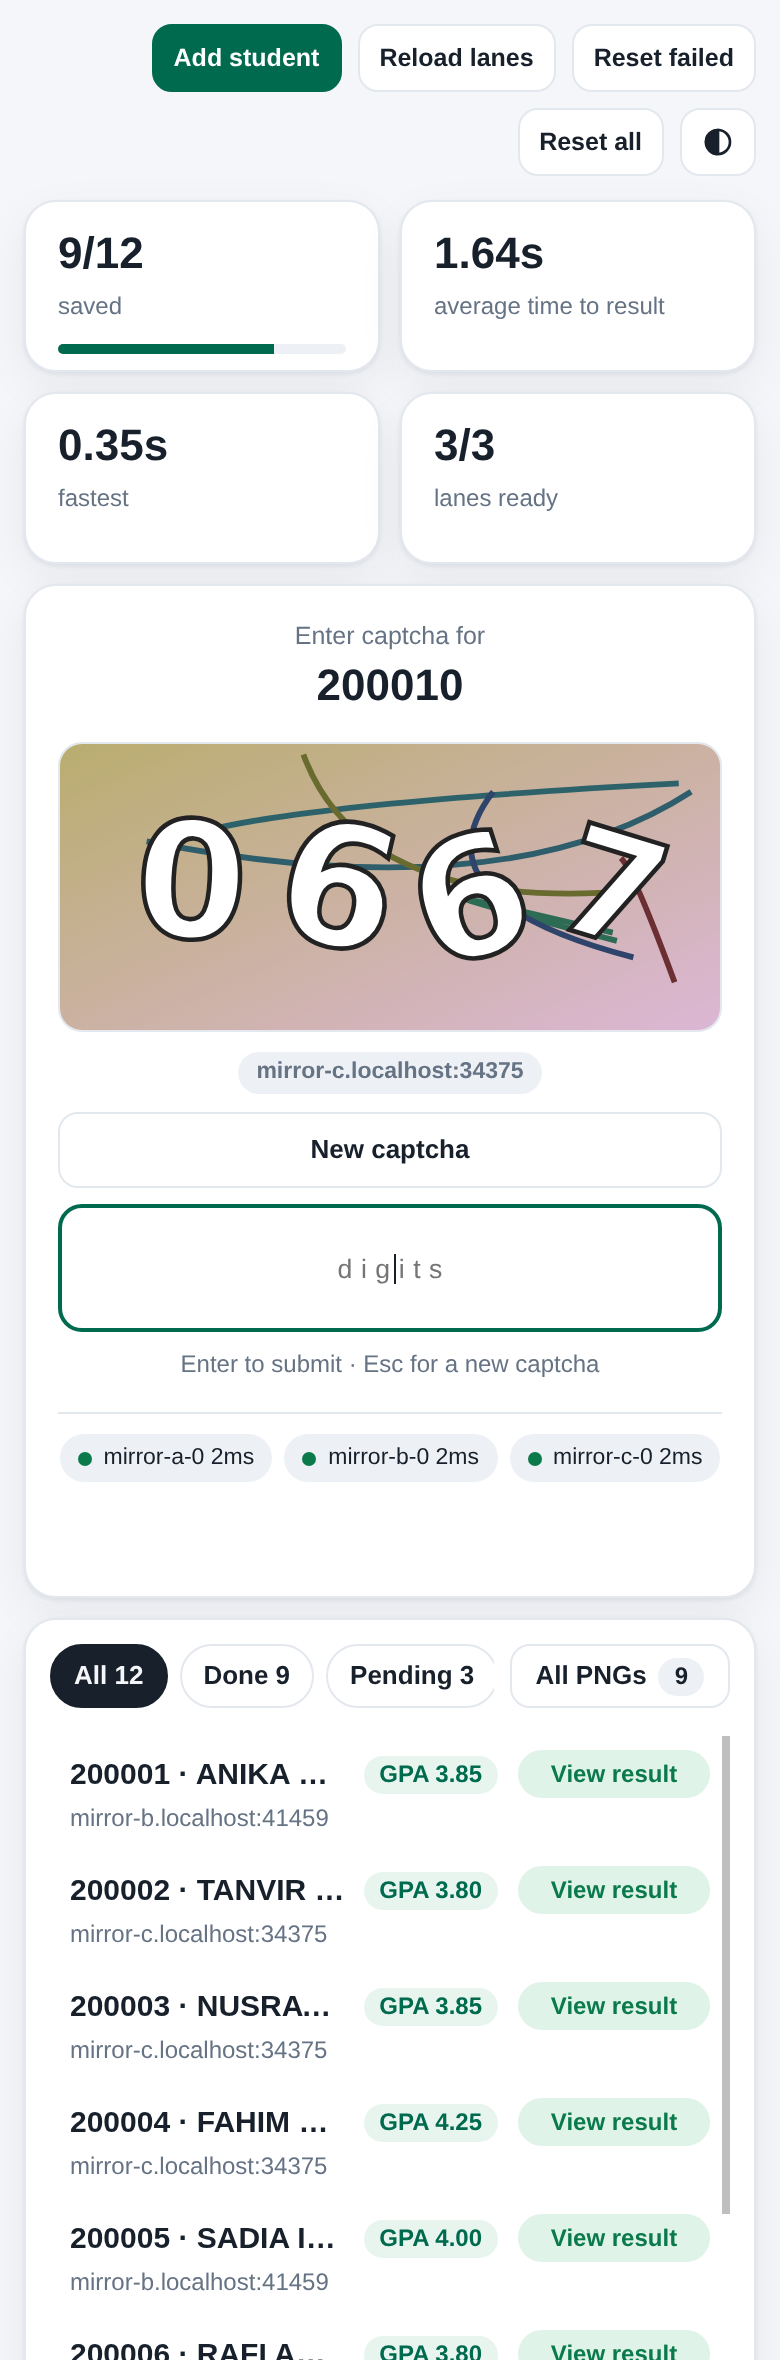
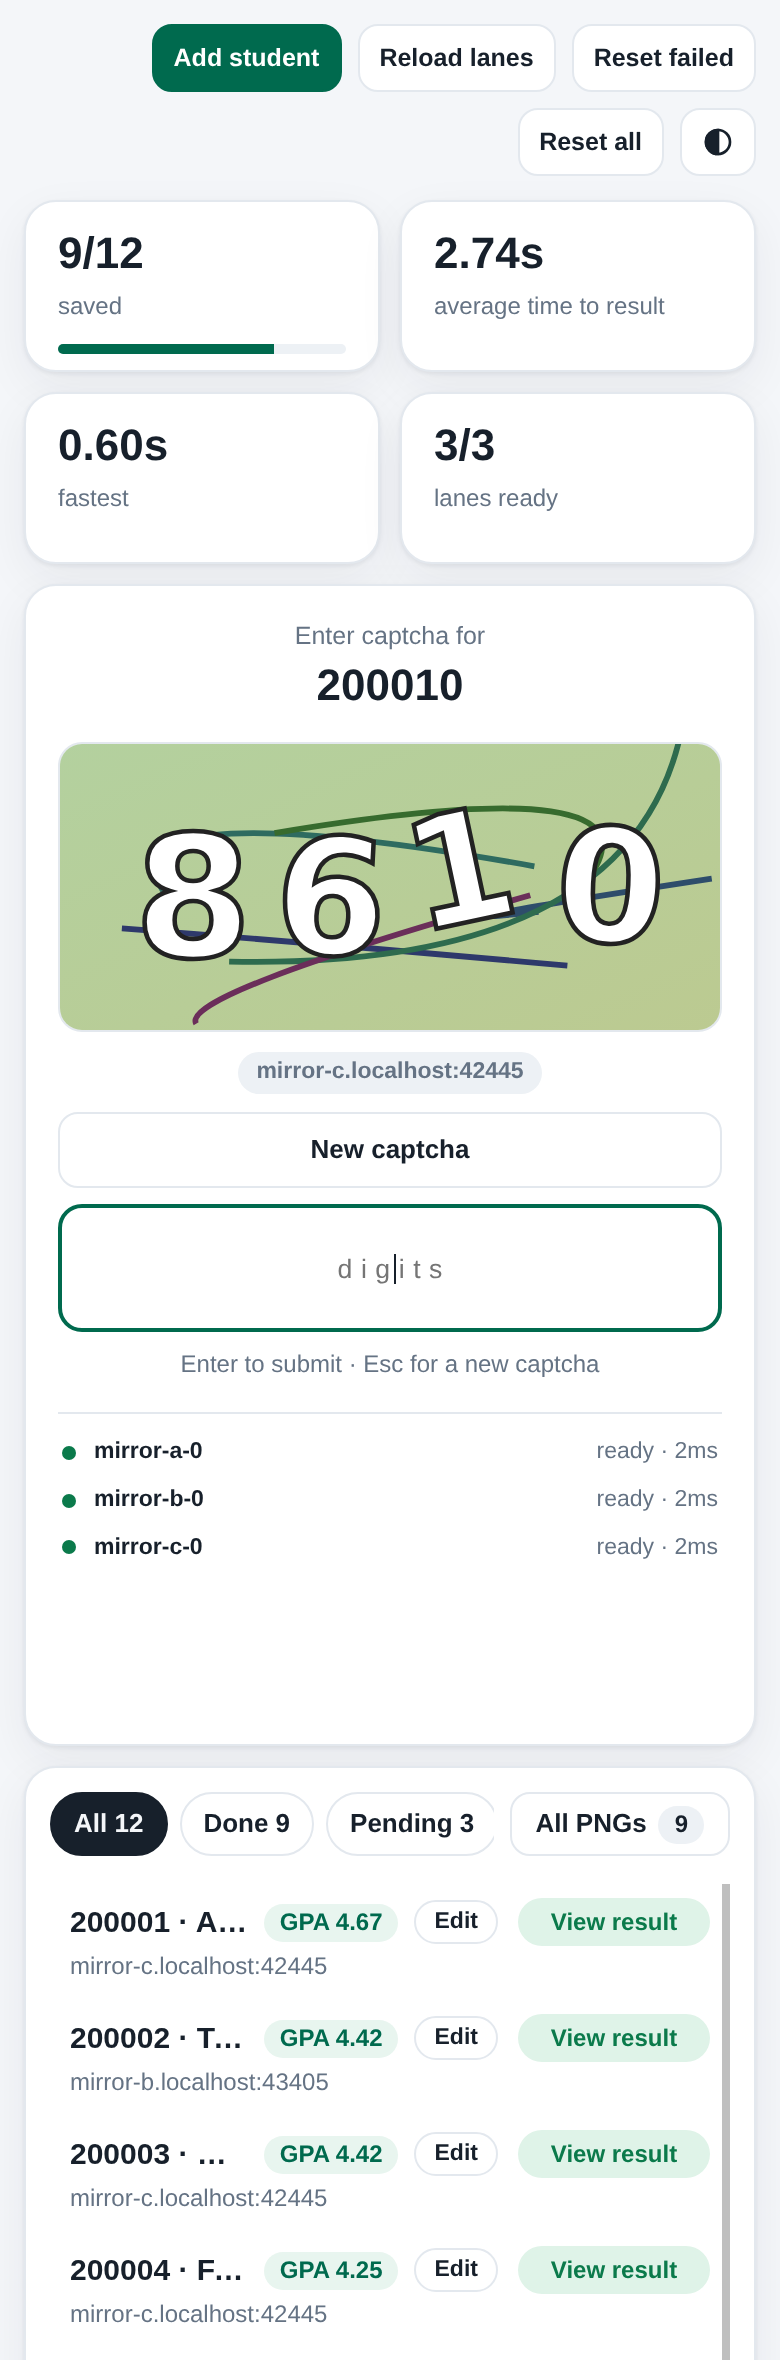
README pictures: the demo now returns HSC-style results with marks, so every screenshot and the sample sheet show them
The demo answers like HSC 2026 (marks before each grade, two-paper codes, a 4th subject, converted marks); the
screenshot tool runs it in a bare room so a local results-race.toml cannot change what it photographs.
README explains the Marks column and the Edit button.

diff --git a/src/results_race/demo.py b/src/results_race/demo.py
@@ -26,35 +26,50 @@ DEMO_STUDENTS = [
     ("200011", "2200000011", "LABONI DAS"), ("200012", "2200000012", "SHAKIB MONDAL"),
 ]
 FAILING = "200008"  # one student who did not pass, so the sheet's "not passed" look is part of the demo
-SUBJECTS = [("101", "BANGLA"), ("107", "ENGLISH"), ("109", "MATHEMATICS"), ("111", "ISLAM AND MORAL EDUCATION"),
-            ("150", "BANGLADESH AND GLOBAL STUDIES"), ("136", "PHYSICS"), ("137", "CHEMISTRY"), ("138", "BIOLOGY"),
-            ("154", "INFORMATION AND COMMUNICATION TECHNOLOGY"), ("126", "HIGHER MATHEMATICS")]
-CO_CURRICULAR = [("147", "PHYSICAL EDUCATION, HEALTH & SPORTS"), ("156", "CAREER EDUCATION")]
+# (paper codes, name, full marks): an HSC science set. Two-paper subjects share a code like "101-102", as on the real site.
+SUBJECTS = [("101-102", "BANGLA", 200), ("107-108", "ENGLISH", 200), ("275", "INFORMATION & COMMUNICATION TECHNOLOGY", 100),
+            ("174-175", "PHYSICS", 200), ("176-177", "CHEMISTRY", 200), ("178-179", "BIOLOGY", 200)]
+FOURTH = ("265-266", "HIGHER MATHEMATICS", 200)
 POINTS = {"A+": 5, "A": 4, "A-": 3.5, "B": 3, "C": 2, "D": 1, "F": 0}
 BAD_CAPTCHA = "Could not validate your provided Security Key / CAPTCHA. Please check and try again."
 NOT_FOUND = "Result not found. Please check the roll and registration number."
 
 
+def grade_of(marks, full):
+    pct = 100 * marks / full
+    return next(g for lo, g in [(80, "A+"), (70, "A"), (60, "A-"), (50, "B"), (40, "C"), (33, "D"), (0, "F")] if pct >= lo)
+
+
 def demo_result(roll, reg, exam, year):
-    """The made-up result for a demo student (None if roll and reg do not match one). Same input, same output."""
+    """The made-up result for a demo student (None if roll and reg do not match one). Same input, same output.
+    Shaped like an HSC 2026 answer: marks before each grade, `showmarks: 1`, converted marks and a 4th subject."""
     found = next((s for s in DEMO_STUDENTS if s[0] == str(roll) and s[1] == str(reg)), None)
     if not found:
         return None
     rnd = random.Random(int(roll))
-    grades = [rnd.choices(["A+", "A", "A-", "B", "C"], weights=[5, 6, 3, 2, 1])[0] for _ in SUBJECTS]
+    def marks(full, low=0.52, high=0.93):
+        return round(full * rnd.uniform(low, high))
+    got = [marks(full) for _, _, full in SUBJECTS]
     if roll == FAILING:
-        grades[rnd.randrange(len(grades))] = "F"
-    gpa = 0.0 if "F" in grades else round(sum(POINTS[g] for g in grades) / len(grades), 2)
-    ca = [rnd.choice(["A+", "A"]) for _ in CO_CURRICULAR]
-    def show(pairs, gs):
-        return ",".join(f"{code}:{g:<2}" for (code, _), g in zip(pairs, gs))
+        i = rnd.randrange(len(got))
+        got[i] = round(SUBJECTS[i][2] * 0.2)  # well under the pass mark
+    fourth = marks(FOURTH[2])
+    grades = [grade_of(m, f) for m, (_, _, f) in zip(got, SUBJECTS)]
+    failed = "F" in grades
+    points = [POINTS[g] for g in grades]
+    gpa = 0.0 if failed else min(5.0, round((sum(points) + max(0, POINTS[grade_of(fourth, FOURTH[2])] - 2)) / len(points), 2))
+    tot_full = sum(f for _, _, f in SUBJECTS) + FOURTH[2] * 0.6
+    converted = 0.0 if failed else (sum(got) + max(0, fourth - FOURTH[2] * 0.4)) / tot_full * 1000
+    entries = [f"{code}:{m:03d}={g}" for (code, _, _), m, g in zip(SUBJECTS, got, grades)]
+    entries.append(f"{FOURTH[0]}:{fourth:03d}={grade_of(fourth, FOURTH[2])}")
+    names = [(c, n) for codes, n, _ in SUBJECTS + [FOURTH] for c in codes.split("-")]
     return {"status": 0, "msg": "Success", "res": {
         "name": found[2], "fname": "A DEMO FATHER", "mname": "A DEMO MOTHER", "roll_no": roll, "regno": reg,
-        "session": "2022-23", "res_detail": f"GPA={gpa:.2f}", "board_name": "DEMO", "stud_group": "SCIENCE",
-        "stud_type": "REGULAR", "dob": f"{1 + int(roll) % 27:02d}-0{1 + int(roll) % 9}-2008", "inst_name": "SAMPLE HIGH SCHOOL",
-        "t_name": "SADAR", "z_name": "SAMPLE", "display_details": show(SUBJECTS, grades),
-        "display_details_ca": show(CO_CURRICULAR, ca)},
-        "sub_details": [{"SUB_CODE": c, "SUB_NAME": n} for c, n in SUBJECTS + CO_CURRICULAR]}
+        "session": "2023-24", "res_detail": f"GPA={gpa:.2f}", "board_name": "DEMO", "stud_group": "SCIENCE",
+        "stud_type": "REGULAR", "dob": f"{1 + int(roll) % 27:02d}-0{1 + int(roll) % 9}-2008", "inst_name": "SAMPLE COLLEGE",
+        "tot_full": str(round(tot_full)), "conv_1000": f"{converted:.2f}", "sub4th": FOURTH[0],
+        "t_name": "SADAR", "z_name": "SAMPLE", "display_details": ",".join(entries), "display_details_ca": ""},
+        "sub_details": [{"SUB_CODE": c, "SUB_NAME": n} for c, n in names], "showmarks": 1, "totalonly": 1, "hidefailed": 1}
 
 
 def captcha_svg(digits, rnd):
@@ -174,7 +189,7 @@ def apply_demo(cfg, workdir):
     cfg.students.file = str(workdir / "students.json")
     cfg.output.dir = str(workdir / "out")
     cfg.proxies.file = ""
-    cfg.run.board, cfg.run.exam, cfg.run.year = "demo", "ssc", "2024"
+    cfg.run.board, cfg.run.exam, cfg.run.year = "demo", "hsc", "2026"
     cfg.card.logos = False
     cfg.card.header_line = "Demonstration - every name and result here is made up"
     cfg.card.board_title = "Sample Examination Board"

diff --git a/tests/test_demo.py b/tests/test_demo.py
@@ -31,7 +31,7 @@ class Client:
         assert ctype.startswith("image/"), ctype  # the app only accepts an image
         return captcha_digits(body.decode())
 
-    def lookup(self, roll, reg, captcha, exam="ssc", year="2024"):
+    def lookup(self, roll, reg, captcha, exam="hsc", year="2026"):
         data = urllib.parse.urlencode({"board": "demo", "exam": exam, "year": year, "result_type": "1", "roll": roll,
                                        "reg": reg, "captcha": captcha}).encode()
         with self.opener.open(self.base + "/v2/getres", data, timeout=10) as r:
@@ -113,16 +113,16 @@ class DemoDataTest(unittest.TestCase):
         self.assertGreaterEqual(len(rolls), 10)
 
     def test_results_are_deterministic_and_include_a_failure(self):
-        results = [demo_result(r, g, "ssc", "2024") for r, g, _ in DEMO_STUDENTS]
-        self.assertEqual(results, [demo_result(r, g, "ssc", "2024") for r, g, _ in DEMO_STUDENTS])
+        results = [demo_result(r, g, "hsc", "2026") for r, g, _ in DEMO_STUDENTS]
+        self.assertEqual(results, [demo_result(r, g, "hsc", "2026") for r, g, _ in DEMO_STUDENTS])
         gpas = [x["res"]["res_detail"] for x in results]
         self.assertTrue(any(g == "GPA=0.00" for g in gpas))
         self.assertTrue(sum(g != "GPA=0.00" for g in gpas) >= 8)
 
     def test_every_demo_result_renders_as_a_sheet(self):
         for roll, reg, name in DEMO_STUDENTS:
-            rec = {"site": "mirror-a.localhost", "ms": 900, "result": demo_result(roll, reg, "ssc", "2024")}
-            html = render(rec, "ssc", 2024)
+            rec = {"site": "mirror-a.localhost", "ms": 900, "result": demo_result(roll, reg, "hsc", "2026")}
+            html = render(rec, "hsc", 2026)
             self.assertIn(name, html)
 
     def test_apply_demo_points_the_config_at_the_mirrors_and_lists_the_students(self):

diff --git a/tools/art/make_screenshots.py b/tools/art/make_screenshots.py
@@ -6,8 +6,10 @@ import asyncio
 import base64
 import json
 import socket
+import os
 import subprocess
 import sys
+import tempfile
 import time
 import urllib.request
 from pathlib import Path
@@ -28,7 +30,10 @@ class App:
         self.base = f"http://127.0.0.1:{self.port}"
         self.proc = subprocess.Popen([sys.executable, "-m", "results_race", "demo", "--port", str(self.port),
                                       "--set", "card.png_scale=2", "--set", "ui.credit=BazarLab by Siyam"],
-                                     stdout=subprocess.DEVNULL, stderr=subprocess.DEVNULL, cwd=ROOT)
+                                     stdout=subprocess.DEVNULL, stderr=subprocess.DEVNULL,
+                                     # a bare room: the photographer's own results-race.toml must not change the demo
+                                     cwd=tempfile.mkdtemp(), env={**os.environ, "HOME": tempfile.mkdtemp(),
+                                                                  "PYTHONPATH": os.pathsep.join(filter(None, [str(ROOT / "src"), os.environ.get("PYTHONPATH")]))})
 
     def call(self, path, body=None, raw=False):
         req = urllib.request.Request(self.base + path, data=None if body is None else json.dumps(body).encode())

diff --git a/tests/test_e2e_demo.py b/tests/test_e2e_demo.py
@@ -66,13 +66,13 @@ class EndToEndTest(unittest.IsolatedAsyncioTestCase):
         import json
         from results_race.card import render
         from results_race.demo import demo_result
-        res = demo_result(*DEMO_STUDENTS[0][:2], "ssc", "2024")
+        res = demo_result(*DEMO_STUDENTS[0][:2], "hsc", "2026")
         crowded = json.loads(json.dumps(res))
         extra = [(str(300 + i), f"EXTRA SUBJECT NUMBER {i}") for i in range(4)]
         crowded["sub_details"] += [{"SUB_CODE": c, "SUB_NAME": n} for c, n in extra]
         crowded["res"]["display_details"] += "," + ",".join(f"{c}:A+" for c, _ in extra)
         for result in (res, crowded):
-            html = render({"site": "http://m.localhost:1", "ms": 900, "result": result}, "ssc", 2024, self.engine.card_style)
+            html = render({"site": "http://m.localhost:1", "ms": 900, "result": result}, "hsc", 2026, self.engine.card_style)
             tab = await self.browser.new_tab("data:text/html;charset=utf-8;base64," + base64.b64encode(html.encode()).decode())
             await asyncio.sleep(0.8)
             m = json.loads(await tab.eval("""(()=>{const r=e=>{const b=document.querySelector(e).getBoundingClientRect();return [b.top,b.bottom]};

diff --git a/README.md b/README.md
@@ -44,8 +44,9 @@ You type the captchas; everything else is automatic.
     <td width="30%" valign="top"><img src="docs/img/app-phone.png" alt="The page on a phone"></td>
     <td width="70%" valign="top" align="center">
       <img src="docs/img/sheet-sample.png" alt="A sample A4 result sheet" width="430"><br>
-      <sub><b>The A4 sheet</b> (demo data): fonts embedded, logos optional, every text configurable, and a small
-      credit line at the bottom you can change or remove.
+      <sub><b>The A4 sheet</b> (demo data): <b>marks for every subject</b> when the result site publishes them (HSC 2026
+      does; a result with grades only just has no Marks column), fonts embedded, logos optional, every text configurable,
+      and a small credit line at the bottom you can change or remove.
       The download is a PNG (2382 x 3369 px by default; this picture is a smaller 2x export) named after
       the student and the result, e.g. <code>Fahim-Chowdhury_GPA-4.25_200004.png</code>.</sub>
     </td>
@@ -122,6 +123,7 @@ It works with no config at all: it starts empty and you add students with **Add 
 | **New captcha** (or Esc) | swap one unreadable captcha for a fresh one |
 | **Reload lanes** | fresh captchas on every ready lane, and rebuilds lanes stuck warming or cooling down (use it when a site hiccups; no restart needed). A lane mid-lookup is left alone |
 | **Add student** | look someone up for any exam and year; saved separately |
+| **Edit** (on each student) | fix a roll or registration number typed wrong: the student starts over, and a result saved under the old numbers is deleted |
 | **Reset failed** / **Reset all** | requeue failures / forget everything and delete saved results |
 | click a finished student | the A4 sheet, with PNG download and print |
 | **Download all A4 PNGs** | one zip with every finished student's A4 PNG (renders are cached, so a second click is instant) |
@@ -198,6 +200,10 @@ out/manual.json                 the list of students added in the page (they com
 Restarting skips anyone already saved. **Reset all** in the page deletes the saved results.
 
 ## The result sheet
+
+The sheet shows each subject's marks, grade and grade point, whenever the site's answer carries marks (as HSC 2026 does:
+`101-102:171=A+`, two papers of a subject sharing one code), plus a 4th-subject tag and the converted marks. Results with grades only
+(such as SSC 2024) get no Marks column.
 
 Downloaded PNGs are named after the student and the result, e.g. `Md-Rahim-Uddin_GPA-4.22_100001.png`
 (`..._Not-Passed_...` for a fail). Non-Latin names are kept, and the zip never has two files with one name.
